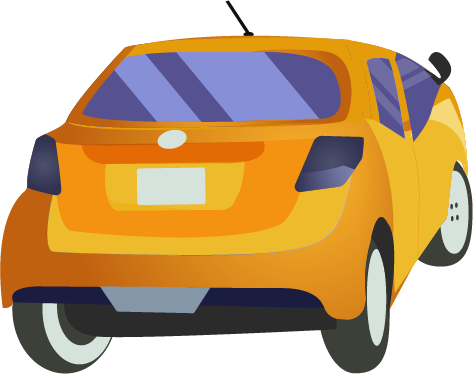
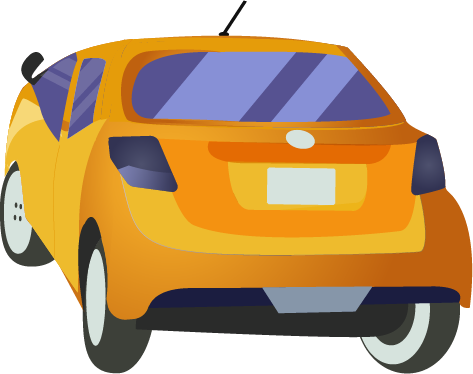
car component

diff --git a/client/components/game-scene-view/car.jsx b/client/components/game-scene-view/car.jsx
@@ -1,0 +1,110 @@
+import React, { useState, useRef, useEffect } from 'react'
+import { Sprite, useTick } from '@inlet/react-pixi'
+
+const leftCarPositionX = 1120 / 2 - 300
+const rightCarPositionX = 1120 / 2 + 300
+const centerCarPositionX = 1120 / 2
+const carPositionY = 649 - 110
+
+const leftCarPositionXshowTexture = 1120 / 2 - 150
+const rightCarPositionXshowTexture = 1120 / 2 + 150
+
+let additionalDirection = 'center'
+
+const Car = () => {
+  const [texture, setTexture] = useState('center')
+  const [moveDirection, setMoveDirection] = useState('')
+  const spriteRef = useRef()
+
+  const textures = {
+    center: 'images/cars/car_center.png',
+    left: 'images/cars/car_left.png',
+    right: 'images/cars/car_right.png'
+  }
+
+  const changeAdditionalDirection = (newDirection) => {
+    if (newDirection === 'left' && additionalDirection === 'center') {
+      additionalDirection = 'left'
+    } else if (newDirection === 'right' && additionalDirection === 'center') {
+      additionalDirection = 'right'
+    } else if (newDirection === 'left' && additionalDirection === 'right') {
+      additionalDirection = 'center'
+    } else if (newDirection === 'right' && additionalDirection === 'left') {
+      additionalDirection = 'center'
+    }
+  }
+
+  const speed = 5
+  const direction = {
+    x: 5,
+    y: 5
+  }
+
+  function update(delta) {
+    const sprite = spriteRef.current
+    if (moveDirection === 'left') {
+      sprite.x -= direction.x * speed * delta
+    } else if (moveDirection === 'right') {
+      sprite.x += direction.x * speed * delta
+    }
+
+    if (sprite.x < leftCarPositionX) sprite.x = leftCarPositionX
+    if (sprite.x > rightCarPositionX) sprite.x = rightCarPositionX
+
+    if (
+      (moveDirection === 'left' &&
+        additionalDirection === 'center' &&
+        sprite.x < centerCarPositionX) ||
+      (moveDirection === 'right' &&
+        additionalDirection === 'center' &&
+        sprite.x > centerCarPositionX)
+    ) {
+      sprite.x = centerCarPositionX
+    }
+
+    sprite.y = carPositionY
+
+    if (sprite.x < leftCarPositionXshowTexture) {
+      setTexture('left')
+    } else if (sprite.x > rightCarPositionXshowTexture) {
+      setTexture('right')
+    } else {
+      setTexture('center')
+    }
+  }
+
+  useEffect(() => {
+    const onKeyDown = (event) => {
+      switch (event.keyCode) {
+        case 37: // Left arrow
+          setMoveDirection('left')
+          changeAdditionalDirection('left')
+          break
+        case 39: // Right arrow
+          setMoveDirection('right')
+          changeAdditionalDirection('right')
+          break
+        default:
+          break
+      }
+    }
+
+    window.addEventListener('keydown', onKeyDown)
+
+    return () => {
+      window.removeEventListener('keydown', onKeyDown)
+    }
+  }, [textures.length])
+
+  useTick((delta) => {
+    update(delta)
+  })
+
+  return (
+    <Sprite ref={spriteRef} image={textures[texture]} anchor={{ x: 0.5, y: 0.5 }} scale={0.5} />
+  )
+}
+
+Car.propTypes = {}
+
+export default React.memo(Car)

diff --git a/client/components/game-scene-view/index.jsx b/client/components/game-scene-view/index.jsx
@@ -1,9 +1,10 @@
 import React, { useMemo, useEffect, useState } from 'react'
 import { BlurFilter } from 'pixi.js'
-import { Stage, Container, Sprite, Text, Graphics } from '@inlet/react-pixi' // eslint-disable-line no-unused-vars
+import { Stage, Container, Sprite, Text } from '@inlet/react-pixi'
 import socketIO from 'socket.io-client'
 
 import Background from './background'
+import Car from './car'
 
 const socket = socketIO.connect('wss://wrongway-racer-api.spls.ae/')
 // eslint-disable-file no-use-before-define
